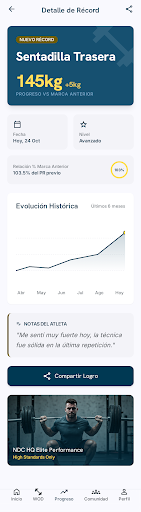
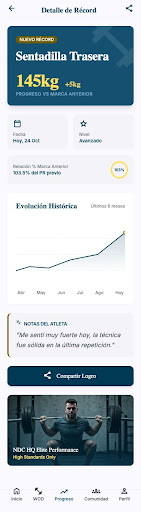
feat(atleta): pantalla Detalle de Logro (PR) con evolución histórica
- PrDetailView fiel al diseño Stitch: hero del récord (NUEVO RÉCORD,
  145kg +5kg), bento (fecha/nivel/% vs marca previa con anillo), gráfico de
  Evolución Histórica (Swift Charts: línea + área + punto destacado), notas
  del atleta, "Compartir Logro" (ShareLink nativo) y banner de marca.
- Empujada dentro del tab Progreso (back · "Detalle de Récord" · compartir),
  conserva el navbar inferior. Navegación desde "Último Logro" y "Marcas
  Clave" de PerformanceView.
- Estándares HIG: ShareLink nativo, háptica, accesibilidad (hero/bento/chart
  con labels).

Datos de muestra (PrDetailData.sample); pendiente cablear a Supabase
(personal_records + historial 6 meses).

diff --git a/NDC-Elite/Features/Athlete/PrDetailView.swift b/NDC-Elite/Features/Athlete/PrDetailView.swift
@@ -1,0 +1,300 @@
+import SwiftUI
+import Charts
+
+/// Detalle de un PR / logro — diseño Stitch "Detalle de Logro: Sentadilla Trasera".
+/// Vista **empujada** dentro del tab Progreso (back · "Detalle de Récord" · compartir;
+/// el navbar inferior permanece). Hero del récord · bento (fecha/nivel/% previo) ·
+/// evolución histórica (gráfico) · notas · Compartir Logro · banner.
+/// (ver FLOWS.md → PrDetailView)
+///
+/// TODO(datos): hoy usa `PrDetailData.sample`. Conectar a Supabase:
+/// personal_records (registro + historial 6 meses del ejercicio).
+struct PrDetailView: View {
+    private let data = PrDetailData.sample
+
+    var body: some View {
+        ScrollView {
+            VStack(alignment: .leading, spacing: NDCSpacing.stackLG) {
+                heroCard
+                statsBento
+                evolutionChart
+                notesCard
+                shareButton
+                contextBanner
+            }
+            .padding(.horizontal, NDCSpacing.marginMain)
+            .padding(.top, NDCSpacing.stackMD)
+            .padding(.bottom, NDCSpacing.stackLG)
+        }
+        .background(NDCColor.background)
+        .scrollIndicators(.hidden)
+        .navigationTitle("Detalle de Récord")
+        .navigationBarTitleDisplayMode(.inline)
+        .toolbar {
+            ToolbarItem(placement: .topBarTrailing) {
+                ShareLink(item: data.shareText) {
+                    Image(systemName: "square.and.arrow.up")
+                        .foregroundStyle(NDCColor.primary)
+                }
+                .simultaneousGesture(TapGesture().onEnded { Haptics.impact(.light) })
+            }
+        }
+    }
+
+    // MARK: - Hero del récord
+
+    private var heroCard: some View {
+        VStack(alignment: .leading, spacing: NDCSpacing.stackSM) {
+            Text(data.badge)
+                .font(NDCFont.labelBold)
+                .foregroundStyle(.white)
+                .padding(.horizontal, 10)
+                .padding(.vertical, 4)
+                .background(NDCColor.secondary, in: .capsule)
+            Text(data.exercise)
+                .font(NDCFont.displayLG)
+                .foregroundStyle(.white)
+            HStack(alignment: .firstTextBaseline, spacing: 8) {
+                Text(data.value)
+                    .font(NDCFont.statsXL)
+                    .foregroundStyle(NDCColor.accent)
+                Text(data.delta)
+                    .font(NDCFont.headlineSM)
+                    .foregroundStyle(NDCColor.accent.opacity(0.9))
+            }
+            Text("PROGRESO VS MARCA ANTERIOR")
+                .font(NDCFont.labelSM)
+                .foregroundStyle(.white.opacity(0.8))
+                .tracking(1)
+        }
+        .padding(NDCSpacing.stackLG)
+        .frame(maxWidth: .infinity, alignment: .leading)
+        .background(NDCColor.primary, in: .rect(cornerRadius: NDCRadius.large))
+        .shadow(color: NDCColor.primaryDark.opacity(0.15), radius: 10, y: 4)
+        .accessibilityElement(children: .combine)
+        .accessibilityLabel("\(data.badge). \(data.exercise), \(data.value), \(data.delta) sobre la marca anterior")
+    }
+
+    // MARK: - Bento de stats
+
+    private var statsBento: some View {
+        VStack(spacing: NDCSpacing.gutter) {
+            HStack(spacing: NDCSpacing.gutter) {
+                miniStat(icon: "calendar", label: "Fecha", value: data.dateLabel)
+                miniStat(icon: "star.fill", label: "Nivel", value: data.level)
+            }
+            HStack {
+                VStack(alignment: .leading, spacing: 2) {
+                    Text("Relación % Marca Anterior")
+                        .font(NDCFont.labelSM)
+                        .foregroundStyle(NDCColor.outline)
+                    Text(data.ratioLabel)
+                        .font(NDCFont.labelBold)
+                        .foregroundStyle(NDCColor.primary)
+                }
+                Spacer()
+                Text(data.ringLabel)
+                    .font(NDCFont.labelBold)
+                    .foregroundStyle(NDCColor.primary)
+                    .frame(width: 48, height: 48)
+                    .overlay(Circle().stroke(NDCColor.accent, lineWidth: 4))
+            }
+            .padding(NDCSpacing.gutter)
+            .frame(maxWidth: .infinity)
+            .background(NDCColor.surface, in: .rect(cornerRadius: NDCRadius.large))
+        }
+    }
+
+    private func miniStat(icon: String, label: String, value: String) -> some View {
+        VStack(alignment: .leading, spacing: NDCSpacing.stackSM) {
+            Image(systemName: icon).foregroundStyle(NDCColor.primary)
+            VStack(alignment: .leading, spacing: 2) {
+                Text(label)
+                    .font(NDCFont.labelSM)
+                    .foregroundStyle(NDCColor.outline)
+                Text(value)
+                    .font(NDCFont.labelBold)
+                    .foregroundStyle(NDCColor.primary)
+            }
+        }
+        .padding(NDCSpacing.gutter)
+        .frame(maxWidth: .infinity, alignment: .leading)
+        .background(NDCColor.surface, in: .rect(cornerRadius: NDCRadius.large))
+        .accessibilityElement(children: .combine)
+        .accessibilityLabel("\(label): \(value)")
+    }
+
+    // MARK: - Evolución histórica (gráfico)
+
+    private var evolutionChart: some View {
+        VStack(alignment: .leading, spacing: NDCSpacing.stackMD) {
+            HStack {
+                Text("Evolución Histórica")
+                    .font(NDCFont.headlineSM)
+                    .foregroundStyle(NDCColor.primary)
+                Spacer()
+                Text("Últimos 6 meses")
+                    .font(NDCFont.labelSM)
+                    .foregroundStyle(NDCColor.outline)
+            }
+            Chart(data.history) { point in
+                AreaMark(
+                    x: .value("Mes", point.month),
+                    y: .value("kg", point.value)
+                )
+                .foregroundStyle(
+                    .linearGradient(
+                        colors: [NDCColor.primary.opacity(0.25), NDCColor.primary.opacity(0.02)],
+                        startPoint: .top, endPoint: .bottom
+                    )
+                )
+                .interpolationMethod(.catmullRom)
+
+                LineMark(
+                    x: .value("Mes", point.month),
+                    y: .value("kg", point.value)
+                )
+                .foregroundStyle(NDCColor.primary)
+                .lineStyle(StrokeStyle(lineWidth: 2.5))
+                .interpolationMethod(.catmullRom)
+
+                if point.id == data.history.last?.id {
+                    PointMark(
+                        x: .value("Mes", point.month),
+                        y: .value("kg", point.value)
+                    )
+                    .foregroundStyle(NDCColor.accent)
+                    .symbolSize(120)
+                }
+            }
+            .chartYAxis(.hidden)
+            .chartXAxis {
+                AxisMarks { value in
+                    AxisValueLabel()
+                        .font(NDCFont.labelSM)
+                        .foregroundStyle(NDCColor.outline)
+                }
+            }
+            .frame(height: 180)
+            .accessibilityLabel("Evolución histórica del PR en los últimos 6 meses, tendencia ascendente")
+        }
+        .padding(NDCSpacing.stackLG)
+        .frame(maxWidth: .infinity, alignment: .leading)
+        .background(NDCColor.background, in: .rect(cornerRadius: NDCRadius.large))
+        .overlay(
+            RoundedRectangle(cornerRadius: NDCRadius.large)
+                .stroke(NDCColor.outline.opacity(0.2), lineWidth: 1)
+        )
+        .shadow(color: NDCColor.primaryDark.opacity(0.06), radius: 8, y: 2)
+    }
+
+    // MARK: - Notas del atleta
+
+    private var notesCard: some View {
+        VStack(alignment: .leading, spacing: NDCSpacing.stackSM) {
+            Label("NOTAS DEL ATLETA", systemImage: "square.and.pencil")
+                .font(NDCFont.labelBold)
+                .foregroundStyle(NDCColor.primary)
+            Text("\"\(data.notes)\"")
+                .font(NDCFont.bodyLG)
+                .italic()
+                .foregroundStyle(NDCColor.onSurfaceVariant)
+        }
+        .padding(NDCSpacing.stackLG)
+        .frame(maxWidth: .infinity, alignment: .leading)
+        .background(NDCColor.surface, in: .rect(cornerRadius: NDCRadius.large))
+        .overlay(alignment: .leading) {
+            Rectangle()
+                .fill(NDCColor.secondary)
+                .frame(width: 4)
+                .clipShape(.rect(cornerRadii: .init(topLeading: NDCRadius.large, bottomLeading: NDCRadius.large)))
+        }
+    }
+
+    // MARK: - Compartir logro
+
+    private var shareButton: some View {
+        ShareLink(item: data.shareText) {
+            Label("Compartir Logro", systemImage: "square.and.arrow.up")
+                .font(NDCFont.headlineSM)
+                .foregroundStyle(.white)
+                .frame(maxWidth: .infinity, minHeight: 52)
+                .background(NDCColor.primary, in: .rect(cornerRadius: NDCRadius.large))
+                .shadow(color: NDCColor.primaryDark.opacity(0.2), radius: 8, y: 4)
+        }
+        .simultaneousGesture(TapGesture().onEnded { Haptics.impact() })
+    }
+
+    // MARK: - Banner de contexto
+
+    private var contextBanner: some View {
+        ZStack(alignment: .bottomLeading) {
+            LinearGradient(
+                colors: [NDCColor.primary, NDCColor.primaryDark],
+                startPoint: .topTrailing, endPoint: .bottomLeading
+            )
+            LinearGradient(
+                colors: [NDCColor.primaryDark.opacity(0.6), .clear],
+                startPoint: .bottom, endPoint: .top
+            )
+            VStack(alignment: .leading, spacing: 2) {
+                Text("NDC HQ Elite Performance")
+                    .font(NDCFont.headlineSM)
+                    .foregroundStyle(.white)
+                Text("High Standards Only")
+                    .font(NDCFont.labelSM)
+                    .foregroundStyle(NDCColor.accent)
+            }
+            .padding(NDCSpacing.stackLG)
+        }
+        .frame(height: 160)
+        .clipShape(.rect(cornerRadius: NDCRadius.large))
+        .accessibilityHidden(true)
+    }
+}
+
+// MARK: - Datos de muestra (a reemplazar por fetch de Supabase)
+
+private struct PrDetailData {
+    struct HistoryPoint: Identifiable {
+        let id = UUID()
+        let month: String
+        let value: Double
+    }
+
+    let badge: String
+    let exercise: String
+    let value: String
+    let delta: String
+    let dateLabel: String
+    let level: String
+    let ratioLabel: String
+    let ringLabel: String
+    let notes: String
+    let history: [HistoryPoint]
+    var shareText: String { "¡Nuevo PR en \(exercise): \(value) (\(delta))! 💪 #NDCHQ" }
+
+    static let sample = PrDetailData(
+        badge: "NUEVO RÉCORD",
+        exercise: "Sentadilla Trasera",
+        value: "145kg",
+        delta: "+5kg",
+        dateLabel: "Hoy, 24 Oct",
+        level: "Avanzado",
+        ratioLabel: "103.5% del PR previo",
+        ringLabel: "103%",
+        notes: "Me sentí muy fuerte hoy, la técnica fue sólida en la última repetición.",
+        history: [
+            .init(month: "Abr", value: 120),
+            .init(month: "May", value: 122),
+            .init(month: "Jun", value: 121),
+            .init(month: "Jul", value: 130),
+            .init(month: "Ago", value: 135),
+            .init(month: "Hoy", value: 145)
+        ]
+    )
+}
+
+#Preview {
+    NavigationStack { PrDetailView() }
+}

diff --git a/diseño/atleta/05-detalle-logro-sentadilla-trasera.html b/diseño/atleta/05-detalle-logro-sentadilla-trasera.html
@@ -1,13 +1,11 @@
-<!DOCTYPE html>
-
-<html class="light" lang="es"><head>
-<meta charset="utf-8"/>
-<meta content="width=device-width, initial-scale=1.0, viewport-fit=cover" name="viewport"/>
+<!DOCTYPE html><html class="light" lang="es"><head>
+<meta charset="utf-8">
+<meta content="width=device-width, initial-scale=1.0, viewport-fit=cover" name="viewport">
 <title>Detalle de Logro - Personal Record</title>
 <script src="https://cdn.tailwindcss.com?plugins=forms,container-queries"></script>
-<link href="https://fonts.googleapis.com/css2?family=Hanken+Grotesk:wght@400;500;600;700;800&amp;family=Inter:wght@400;500;600;700&amp;display=swap" rel="stylesheet"/>
-<link href="https://fonts.googleapis.com/css2?family=Material+Symbols+Outlined:wght,FILL@100..700,0..1&amp;display=swap" rel="stylesheet"/>
-<link href="https://fonts.googleapis.com/css2?family=Material+Symbols+Outlined:wght,FILL@100..700,0..1&amp;display=swap" rel="stylesheet"/>
+<link href="https://fonts.googleapis.com/css2?family=Hanken+Grotesk:wght@400;500;600;700;800&amp;family=Inter:wght@400;500;600;700&amp;display=swap" rel="stylesheet">
+<link href="https://fonts.googleapis.com/css2?family=Material+Symbols+Outlined:wght,FILL@100..700,0..1&amp;display=swap" rel="stylesheet">
+<link href="https://fonts.googleapis.com/css2?family=Material+Symbols+Outlined:wght,FILL@100..700,0..1&amp;display=swap" rel="stylesheet">
 <script id="tailwind-config">
       tailwind.config = {
         darkMode: "class",
@@ -199,12 +197,12 @@
 <span class="text-label-sm text-outline">Últimos 6 meses</span>
 </div>
 <div class="chart-container">
-<svg class="w-full h-full" viewbox="0 0 400 180">
+<svg class="w-full h-full" viewBox="0 0 400 180">
 <defs>
-<lineargradient id="chartGradient" x1="0" x2="0" y1="0" y2="1">
+<linearGradient id="chartGradient" x1="0" x2="0" y1="0" y2="1">
 <stop offset="0%" stop-color="#003953"></stop>
 <stop offset="100%" stop-color="#f9f9fe"></stop>
-</lineargradient>
+</linearGradient>
 </defs>
 <!-- Grid Lines -->
 <line stroke="#e2e2e7" stroke-dasharray="4" x1="0" x2="400" y1="160" y2="160"></line>
@@ -244,7 +242,7 @@
 </button>
 <!-- Visual Context Image (Athlete) -->
 <div class="rounded-xl overflow-hidden aspect-video relative group">
-<img alt="Athlete performing heavy back squat" class="w-full h-full object-cover grayscale-[30%] group-hover:grayscale-0 transition-all duration-700" data-alt="A powerful professional athlete performing a heavy back squat with a loaded barbell in a high-performance CrossFit box. The lighting is dramatic and moody with a cool blue undertone, highlighting the muscle definition and grit of the movement. The surrounding environment is minimalist and industrial, featuring high-end professional equipment. The overall aesthetic is premium, energetic, and clean, matching a sophisticated fitness brand identity." src="https://lh3.googleusercontent.com/aida-public/AB6AXuAlJVBLrqAAbH8Z9QHv708q7m4JvZvb55lD17Zcq_IdHuaWYZCVZrD9HDL2cHSF_1Zzl85I_v_NrZ2Vj2pT6Y_CQfOZCrloXi891hnQC6z8TUIeLthKBWHNtnPLM9pOQhm_o7ycBOXcqpFcM2RUZT8iSSd6OYxII5vTsgzn_fh_1oGpjttjpnE5z_Yc7Oh9t89VrEH-N2g6q5UUl2uBa1wfDMKv8qZYZnBZXZ5g8ge5RZdTr0cqV7R0qE5FsYdFLSwUuac4P3Ni_xMB"/>
+<img alt="Athlete performing heavy back squat" class="w-full h-full object-cover grayscale-[30%] group-hover:grayscale-0 transition-all duration-700" data-alt="A powerful professional athlete performing a heavy back squat with a loaded barbell in a high-performance CrossFit box. The lighting is dramatic and moody with a cool blue undertone, highlighting the muscle definition and grit of the movement. The surrounding environment is minimalist and industrial, featuring high-end professional equipment. The overall aesthetic is premium, energetic, and clean, matching a sophisticated fitness brand identity." src="https://lh3.googleusercontent.com/aida-public/AB6AXuAlJVBLrqAAbH8Z9QHv708q7m4JvZvb55lD17Zcq_IdHuaWYZCVZrD9HDL2cHSF_1Zzl85I_v_NrZ2Vj2pT6Y_CQfOZCrloXi891hnQC6z8TUIeLthKBWHNtnPLM9pOQhm_o7ycBOXcqpFcM2RUZT8iSSd6OYxII5vTsgzn_fh_1oGpjttjpnE5z_Yc7Oh9t89VrEH-N2g6q5UUl2uBa1wfDMKv8qZYZnBZXZ5g8ge5RZdTr0cqV7R0qE5FsYdFLSwUuac4P3Ni_xMB">
 <div class="absolute inset-0 bg-gradient-to-t from-primary/60 to-transparent"></div>
 <div class="absolute bottom-4 left-4">
 <p class="text-white font-headline-sm">NDC HQ Elite Performance</p>

diff --git a/NDC-Elite/Features/Athlete/PerformanceView.swift b/NDC-Elite/Features/Athlete/PerformanceView.swift
@@ -17,6 +17,7 @@ struct PerformanceView: View {
     private let data = PerformanceData.sample
 
     @State private var showLogPr = false
+    @State private var showPrDetail = false
 
     var body: some View {
         NavigationStack {
@@ -38,6 +39,7 @@ struct PerformanceView: View {
             .scrollIndicators(.hidden)
             .overlay(alignment: .bottomTrailing) { logPrFAB }
             .sheet(isPresented: $showLogPr) { LogPrSheet() }
+            .navigationDestination(isPresented: $showPrDetail) { PrDetailView() }
             .toolbar(.hidden, for: .navigationBar)
         }
         .tint(NDCColor.primary)
@@ -83,7 +85,7 @@ struct PerformanceView: View {
             }
             Button {
                 Haptics.impact(.light)
-                // TODO: → PrDetailView
+                showPrDetail = true
             } label: {
                 HStack(spacing: NDCSpacing.gutter) {
                     Image(systemName: "dumbbell.fill")
@@ -134,7 +136,7 @@ struct PerformanceView: View {
                 ForEach(data.keyMarks) { mark in
                     KeyMarkRow(mark: mark) {
                         Haptics.impact(.light)
-                        // TODO: → PrDetailView del ejercicio
+                        showPrDetail = true
                     }
                 }
             }